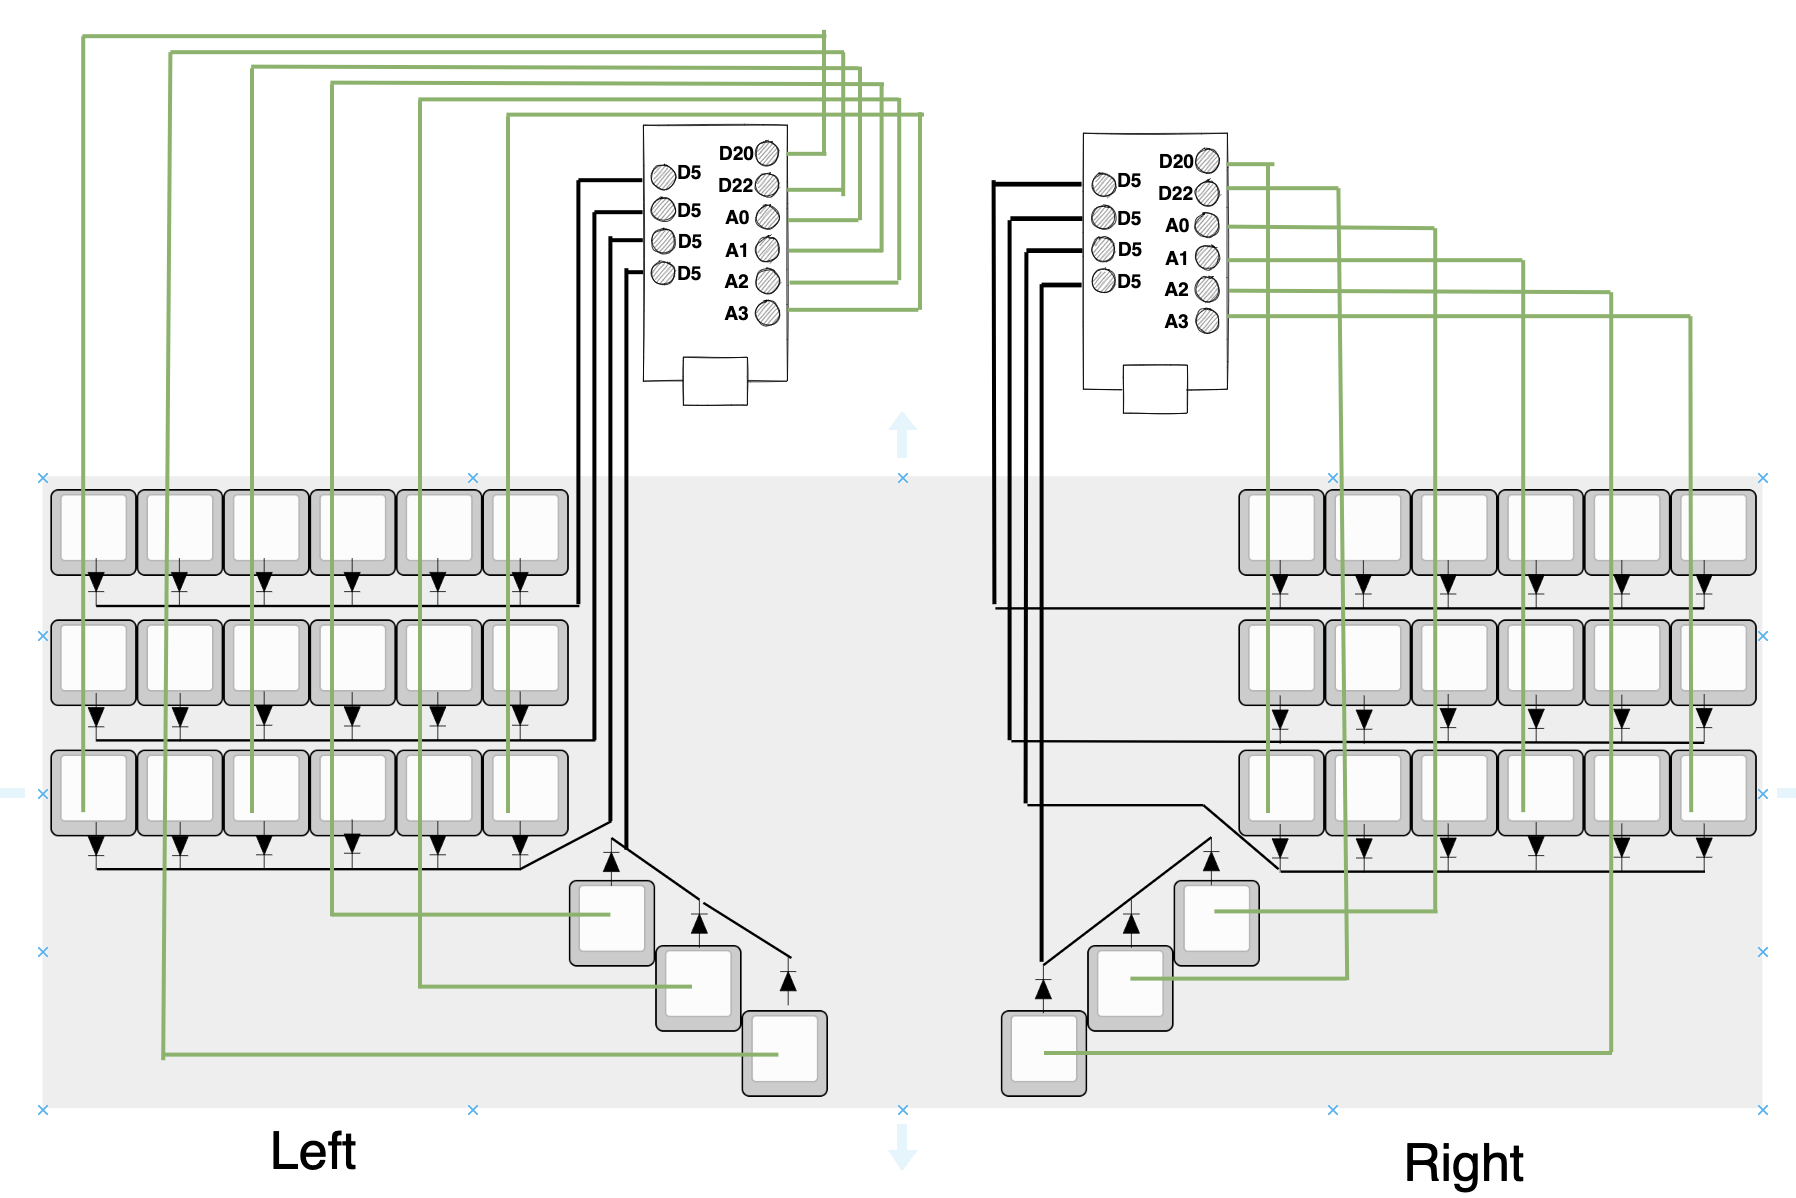
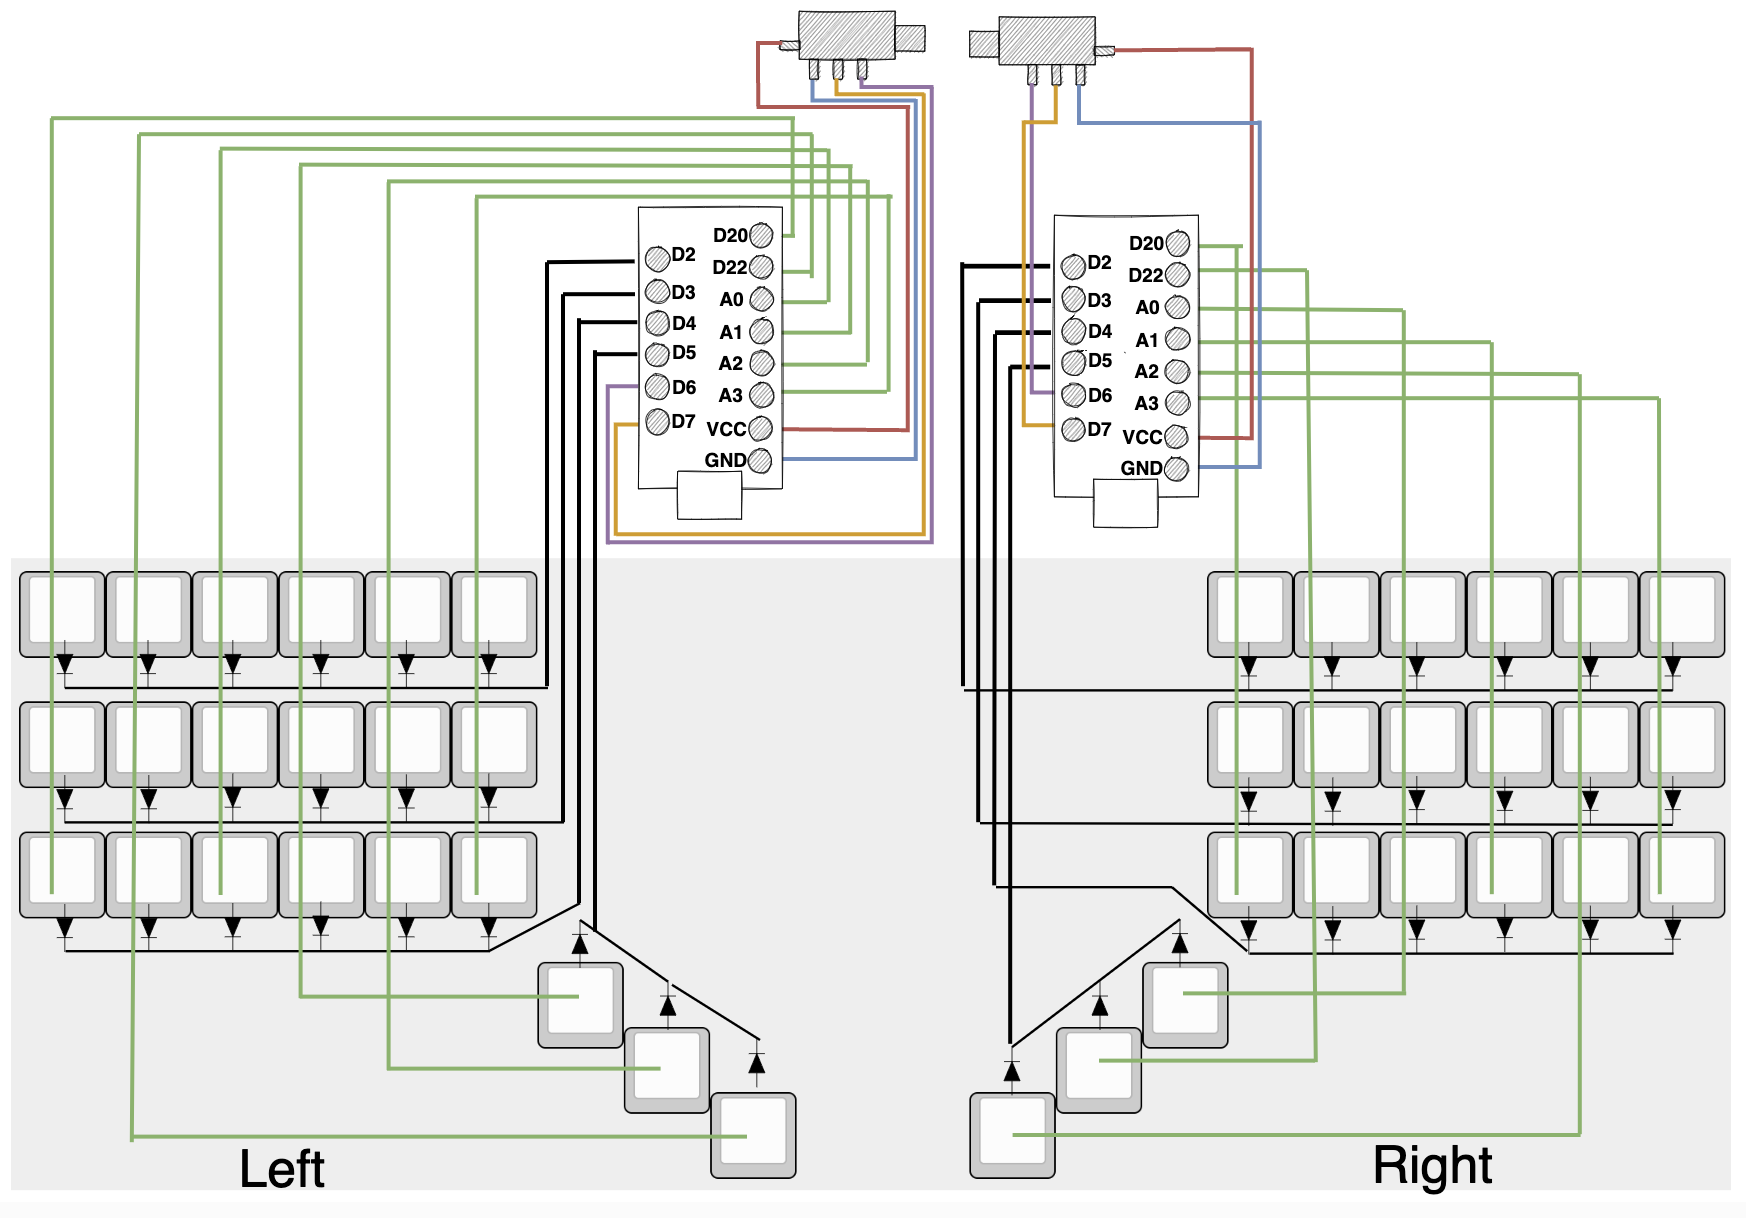
Added pinout for splinky. Fix Wiring diagram

Changed region(s): [[0.0, 0.0, 1.0, 1.0], [0.0309, 0.0309, 0.0619, 0.0618]]

diff --git a/keyboards/adam/tbk/readme.md b/keyboards/adam/tbk/readme.md
@@ -117,3 +117,6 @@ Layer 5 [ FUNCTION ROW ]
 # Wiring Diagram 
 
 ![Wiring Diagram](images/wiring-guide-2.png)
+
+# Splinky Pinout
+![Splinky Pinout](https://i.imgur.com/1TPAhrs.jpg)
